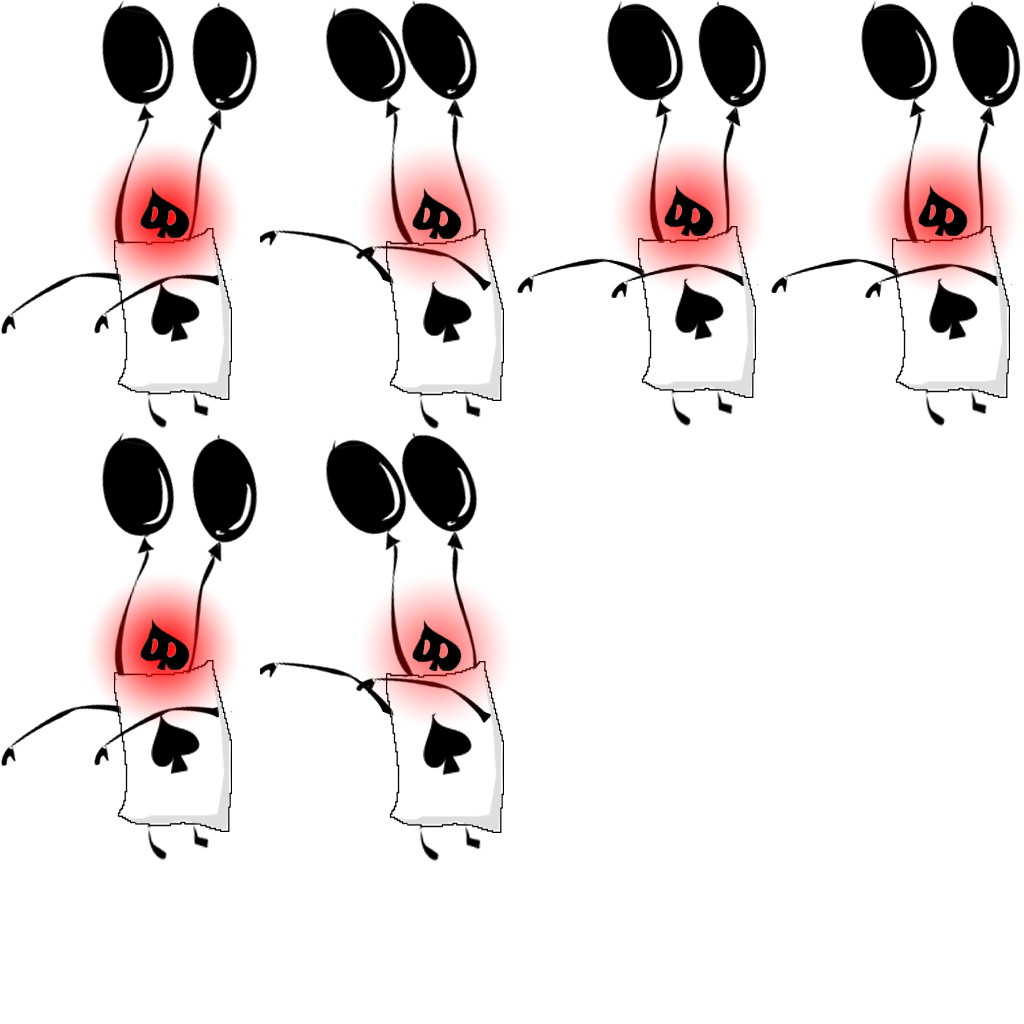
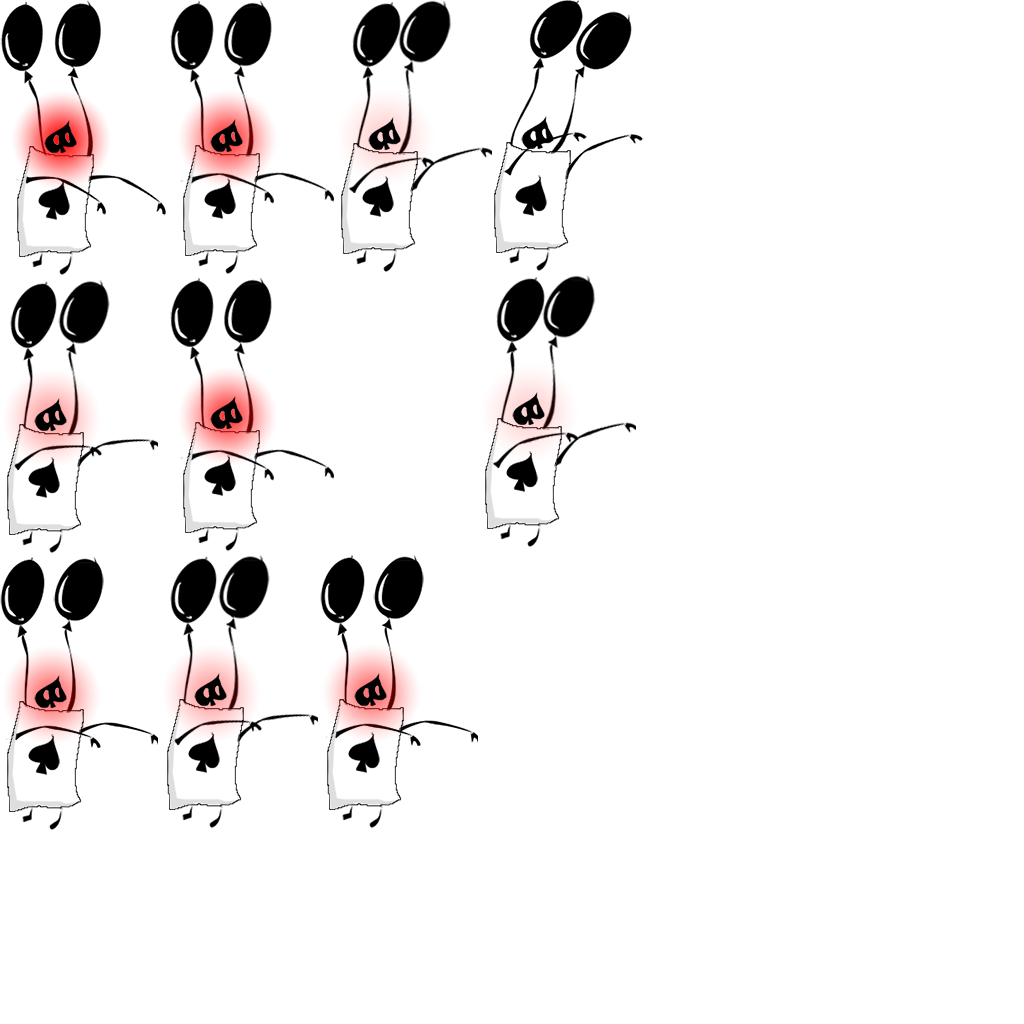
2:03

Changed region(s): [[0.0, 0.0, 1.0, 0.8438]]

diff --git a/JokerJumper/GameLayer.mm b/JokerJumper/GameLayer.mm
@@ -31,6 +31,7 @@
 @synthesize distance;
 @synthesize fall1;
 @synthesize fall2;
+
 @synthesize flowerBatchNode;
 //@synthesize statusLabel;
 //@synthesize distanceLabel;
@@ -816,6 +817,48 @@ bool gravity = true;
     return direction;
 }
 
+- (void)updateFlower:(CGPoint)point
+{
+    CGSize winSize = [CCDirector sharedDirector].winSize;
+    b2BodyDef bodyDef;
+    bodyDef.position.Set((point.x+32)/PTM_RATIO, (point.y-32)/PTM_RATIO);
+    bodyDef.gravityScale = 0.0f;
+    GameObject* actor=[GameObject spriteWithSpriteFrameName:@"piranha0.png"];
+    [actor setType:kGameObjectFlower];
+    bodyDef.userData = (__bridge_retained void*) actor;
+    b2Body *body = world->CreateBody(&bodyDef);
+    b2PolygonShape dynamicBox;
+    dynamicBox.SetAsBox(128/2/PTM_RATIO, 128/2/PTM_RATIO);
+    b2FixtureDef fixtureDef;
+    fixtureDef.shape = &dynamicBox;
+    fixtureDef.density = 0;
+    body->CreateFixture(&fixtureDef);
+    
+    NSMutableArray *animFrames1 = [NSMutableArray array];
+    for(int i = 0; i <= 10; ++i) {
+        [animFrames1 addObject:
+         [[CCSpriteFrameCache sharedSpriteFrameCache] spriteFrameByName:
+          [NSString stringWithFormat:@"piranha%d.png",i]]];
+    }
+    CCAnimation *Animation1 = [CCAnimation animationWithSpriteFrames:animFrames1 delay:0.25f];
+    CCAction *Action1 = [CCRepeat actionWithAction: [CCAnimate actionWithAnimation: Animation1] times:1];
+    
+    //    NSMutableArray *animFrames2 = [NSMutableArray array];
+    //    for(int i = 8; i <= 18; ++i) {
+    //        [animFrames1 addObject:
+    //         [[CCSpriteFrameCache sharedSpriteFrameCache] spriteFrameByName:
+    //          [NSString stringWithFormat:@"zombie_hand%d.png",i]]];
+    //    }
+    //    CCAnimation *Animation2 = [CCAnimation animationWithSpriteFrames:animFrames2 delay:0.05f];
+    //    CCFiniteTimeAction *Action2 = [CCRepeat actionWithAction: [CCAnimate actionWithAnimation: Animation2] times:1];
+    //    id sequence = [CCSequence actions:Action1, Action2, nil];
+    //    [actor setTexture:[flowerBatchNode texture]];
+    
+    [self addChild:actor z:10];
+    [actor runAction:Action1];
+}
+
+
 - (void)update:(ccTime)dt {
     //CCLOG(@"dt: %f",dt);
     //CCLOG(@"###vel:%f",joker.jokerBody->GetLinearVelocity().x);
@@ -855,6 +898,26 @@ bool gravity = true;
         [self updateFalling:FALLING_WOOD2];
         fall2=true;
     }
+    
+    if(joker.position.x>100*32-300 && flower1==false)
+    {
+        [self updateFlower:ccp(100*32,(24-20)*32)];
+        flower1=true;
+    }
+    if(joker.position.x>156*32-300 && flower2==false)
+    {
+        [self updateFlower:ccp(156*32,(24-17)*32)];
+        flower2=true;
+    }
+    if(joker.position.x>216*32/2-300 && flower3==false)
+    {
+        [self updateFlower:ccp(216*32,(24-19)*32)];
+        flower3=true;
+    }
+
+    
+    
+    
     
     if(!CGRectIsNull(CGRectIntersection([self positionRect:joker],[self positionRect:fly])))
     {
@@ -916,6 +979,7 @@ bool gravity = true;
             if([myActor isMemberOfClass:[GameObject class]])
             {
                 GameObject*actor=(GameObject*)myActor;
+                /*
                 if(actor.type==kGameObjectFlower)
                 {
                     if(actor.position.x-joker.position.x<100)
@@ -933,6 +997,7 @@ bool gravity = true;
                         [actor runAction:Action];
                     }
                 }
+                 */
                 if((b->GetPosition().x<(joker.position.x-DESTORY_DISTANCE)/PTM_RATIO)&&actor.type!=kGameObjectEmeny)
                 {
                     toDestroy.push_back(b);

diff --git a/JokerJumper/GameLayer2.mm b/JokerJumper/GameLayer2.mm
@@ -764,6 +764,7 @@ bool gravity2 = true;
     [[CCSpriteFrameCache sharedSpriteFrameCache] addSpriteFramesWithFile:@"brick2_hd_default.plist"];
     [[CCSpriteFrameCache sharedSpriteFrameCache] addSpriteFramesWithFile:@"pokerSoilder_default.plist"];
     [[CCSpriteFrameCache sharedSpriteFrameCache] addSpriteFramesWithFile:@"diamond_default.plist"];
+    [[CCSpriteFrameCache sharedSpriteFrameCache] addSpriteFramesWithFile:@"heart_default.plist"];
     [[CCSpriteFrameCache sharedSpriteFrameCache] addSpriteFramesWithFile:@"leaf_default.plist"];
     [[CCSpriteFrameCache sharedSpriteFrameCache] addSpriteFramesWithFile:@"piranha_default.plist"];
     [[CCSpriteFrameCache sharedSpriteFrameCache] addSpriteFramesWithFile:@"brick_stone_smile_default.plist"];
@@ -856,7 +857,7 @@ bool gravity2 = true;
         
         ghost=[CCSprite spriteWithSpriteFrameName:@"pokerSoilder1.png"];
         NSMutableArray *ghostAnimFrames = [NSMutableArray array];
-        for(int i = 0; i <= 5; ++i) {
+        for(int i = 0; i <= 9; ++i) {
             [ghostAnimFrames addObject:
              [[CCSpriteFrameCache sharedSpriteFrameCache] spriteFrameByName:
               [NSString stringWithFormat:@"pokerSoilder%d.png", i]]];

diff --git a/JokerJumper/GameLayer.h b/JokerJumper/GameLayer.h
@@ -54,6 +54,9 @@
     BOOL jokerStartCharge;
     BOOL fall1;
     BOOL fall2;
+    BOOL flower1;
+    BOOL flower2;
+    BOOL flower3;
     float jokerCharge;
     CCSpriteBatchNode* brick1BatchNode;
     CCSpriteBatchNode* brick2BatchNode;
